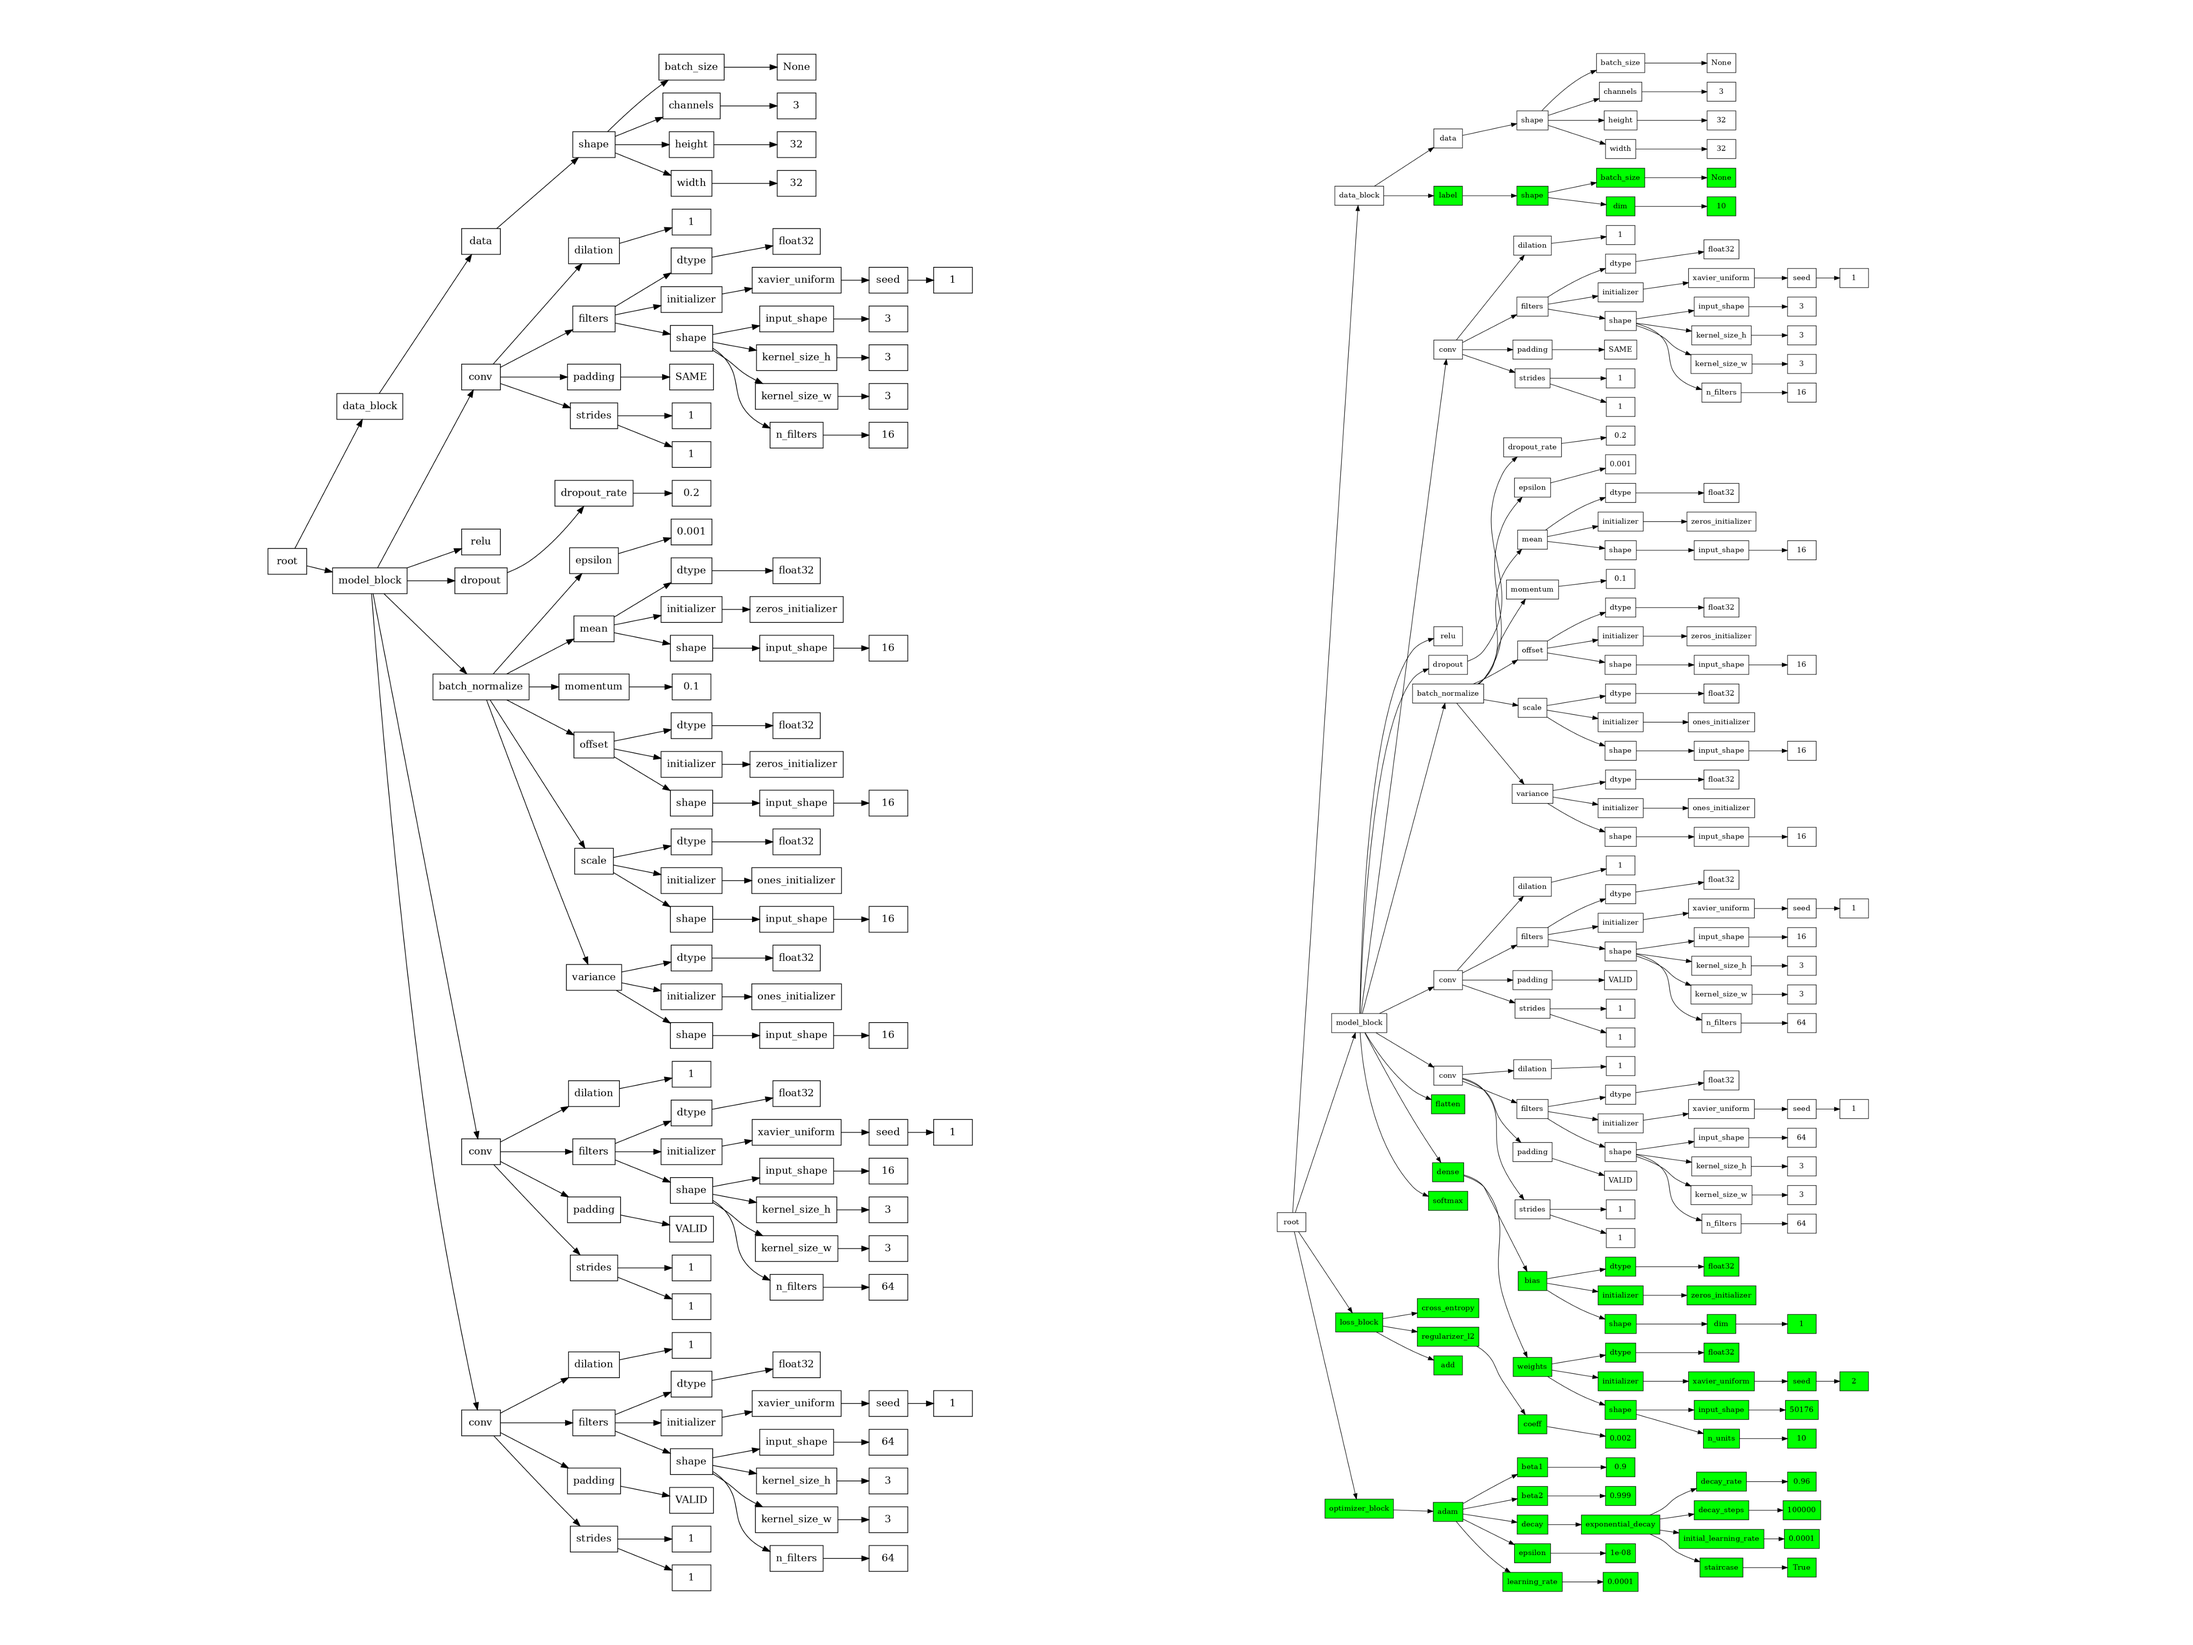
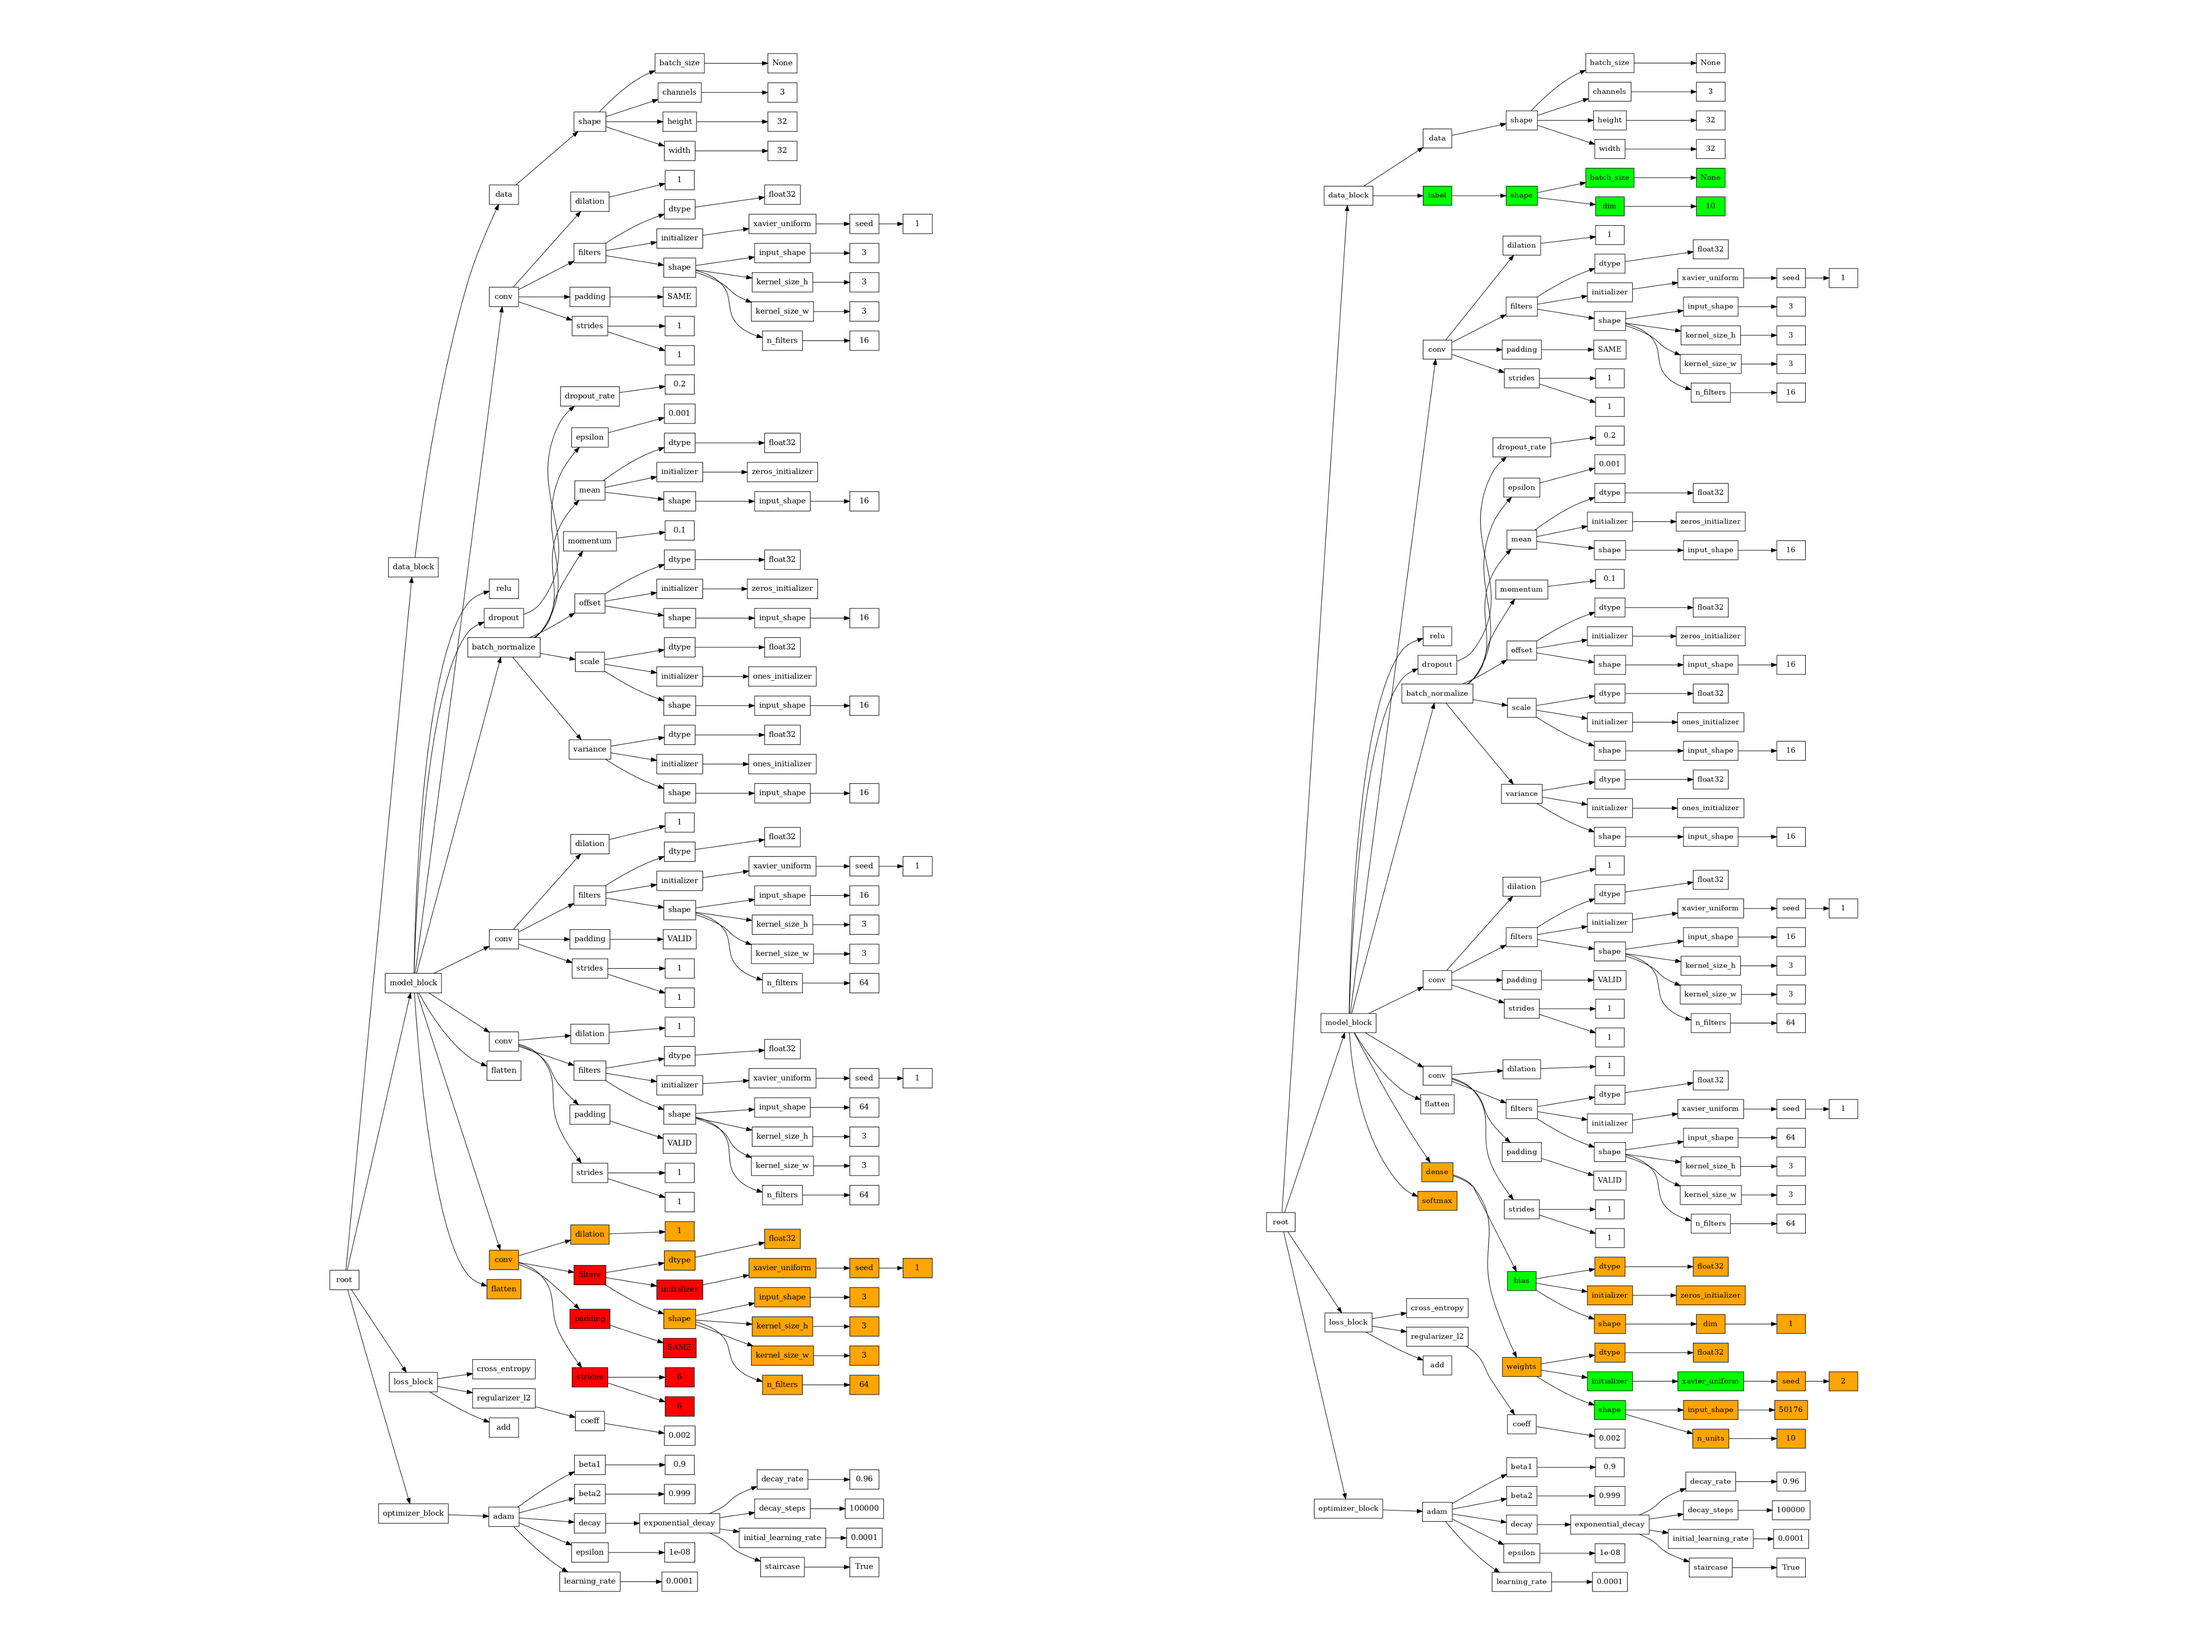
Add loss block and optimizer block to replaced config

diff --git a/cache/new_mismatched_generated.py b/cache/new_mismatched_generated.py
@@ -42,9 +42,12 @@ class Model(torch.nn.Module):
         model_block_conv_12ms_filters_initializer_xavier_uniform = torch.as_tensor(data=np.asarray(ckpt['model_block/conv_12ms/filters']), dtype=torch_types['float32'], device=device)
         model_block_conv_12ms_filters = torch.nn.parameter.Parameter(data=model_block_conv_12ms_filters_initializer_xavier_uniform, requires_grad=False)
         trainable_params['model_block/conv_12ms/filters'] = model_block_conv_12ms_filters
-        model_block_feature_filters_initializer_xavier_uniform = torch.as_tensor(data=np.asarray(ckpt['model_block/feature/filters']), dtype=torch_types['float32'], device=device)
-        model_block_feature_filters = torch.nn.parameter.Parameter(data=model_block_feature_filters_initializer_xavier_uniform, requires_grad=False)
-        trainable_params['model_block/feature/filters'] = model_block_feature_filters
+        model_block_conv_14oi_filters_initializer_xavier_uniform = torch.as_tensor(data=np.asarray(ckpt['model_block/conv_14oi/filters']), dtype=torch_types['float32'], device=device)
+        model_block_conv_14oi_filters = torch.nn.parameter.Parameter(data=model_block_conv_14oi_filters_initializer_xavier_uniform, requires_grad=False)
+        trainable_params['model_block/conv_14oi/filters'] = model_block_conv_14oi_filters
+        model_block_conv_18so_filters_initializer_xavier_uniform = torch.nn.init.xavier_uniform_(tensor=torch.empty(*[64, 3, 3, 3]))
+        model_block_conv_18so_filters = torch.nn.parameter.Parameter(data=model_block_conv_18so_filters_initializer_xavier_uniform, requires_grad=False)
+        trainable_params['model_block/conv_18so/filters'] = model_block_conv_18so_filters
         return trainable_params
     
     @staticmethod
@@ -54,8 +57,28 @@ class Model(torch.nn.Module):
         model_block_dropout_8im = torch.nn.functional.dropout(input=model_block_reluu, p=0.2, training=training, inplace=False)
         model_block_batch_normalize_10kc = torch.nn.functional.batch_norm(input=model_block_dropout_8im, running_mean=trainable_params['model_block/batch_normalize_10kc/mean'], running_var=trainable_params['model_block/batch_normalize_10kc/variance'], weight=trainable_params['model_block/batch_normalize_10kc/scale'], bias=trainable_params['model_block/batch_normalize_10kc/offset'], training=training, momentum=0.1, eps=0.001)
         model_block_conv_12ms = torch.nn.functional.conv2d(input=model_block_batch_normalize_10kc, weight=trainable_params['model_block/conv_12ms/filters'], bias=None, stride=1, padding=[0, 0], dilation=1, groups=1)
-        model_block_feature = torch.nn.functional.conv2d(input=model_block_conv_12ms, weight=trainable_params['model_block/feature/filters'], bias=None, stride=1, padding=[0, 0], dilation=1, groups=1)
-        return model_block_feature 
+        model_block_conv_14oi = torch.nn.functional.conv2d(input=model_block_conv_12ms, weight=trainable_params['model_block/conv_14oi/filters'], bias=None, stride=1, padding=[0, 0], dilation=1, groups=1)
+        model_block_feature = torch.flatten(input=model_block_conv_14oi, start_dim=1, end_dim=-1)
+        model_block_conv_18so = torch.nn.functional.conv2d(input=data_block_input_data, weight=trainable_params['model_block/conv_18so/filters'], bias=None, stride=6, padding=[1, 1], dilation=1, groups=1)
+        model_block_output = torch.flatten(input=model_block_conv_18so, start_dim=1, end_dim=-1)
+        return model_block_output 
+    
+    @staticmethod
+    def get_loss(trainable_params, inputs):
+        loss_block_cross_0 = torch.nn.functional.cross_entropy(weight=None, ignore_index=-100, reduction='mean', target=inputs[0], input=inputs[1])
+        loss_block_regularizer = 0.002*sum(list(map(lambda x: torch.norm(input=trainable_params[x]), ['model_block/conv_4eg/filters', 'model_block/conv_12ms/filters', 'model_block/conv_14oi/filters', 'model_block/conv_18so/filters'])))
+        loss_block_losses = torch.add(input=[loss_block_cross_0, loss_block_regularizer][0], other=[loss_block_cross_0, loss_block_regularizer][1])
+        return loss_block_losses 
+    
+    @staticmethod
+    def get_optimizer(trainable_params):
+        optimizer_block_solver = torch.optim.Adam(params=trainable_params, lr=0.0001, betas=(0.9, 0.999), eps=1e-08)
+        return optimizer_block_solver 
+    
+    @staticmethod
+    def get_scheduler(optimizer):
+        optimizer_block_solver_decay_exponential_decay = torch.optim.lr_scheduler.ExponentialLR(optimizer=optimizer, gamma=0.96, last_epoch=-1, verbose=False)
+        return optimizer_block_solver_decay_exponential_decay 
     
 from alex.alex.checkpoint import Checkpoint
 
